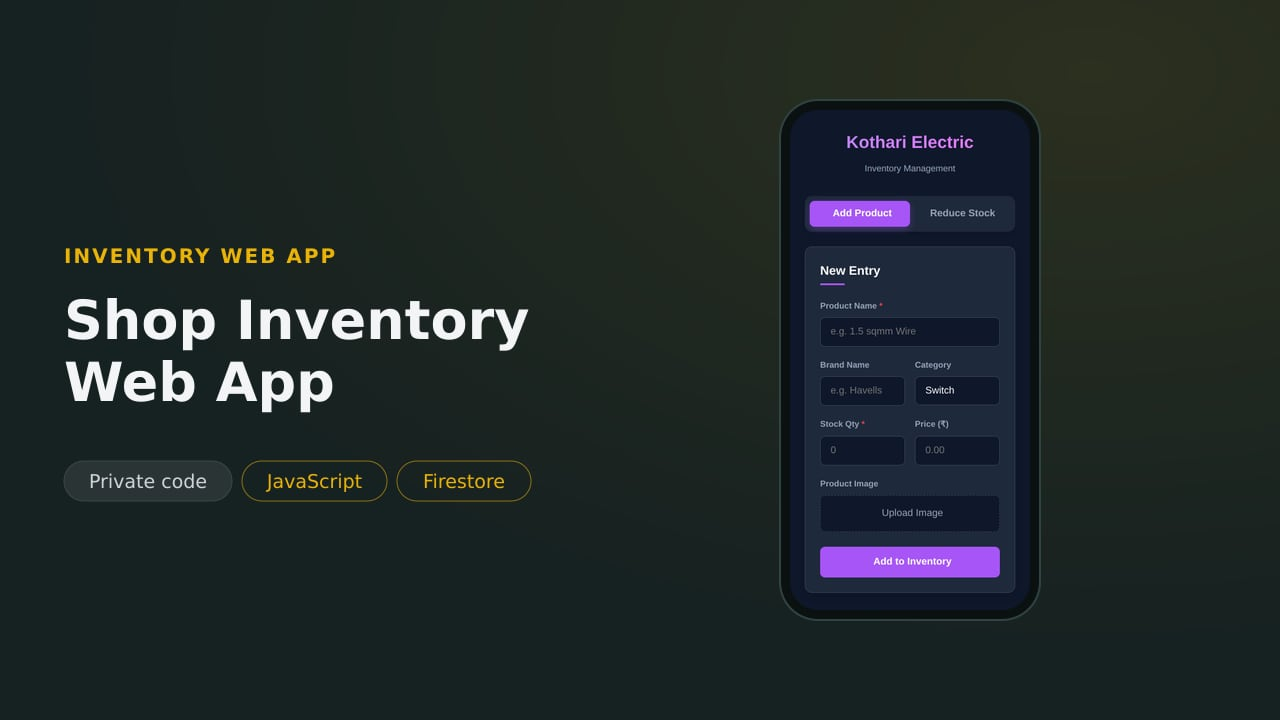
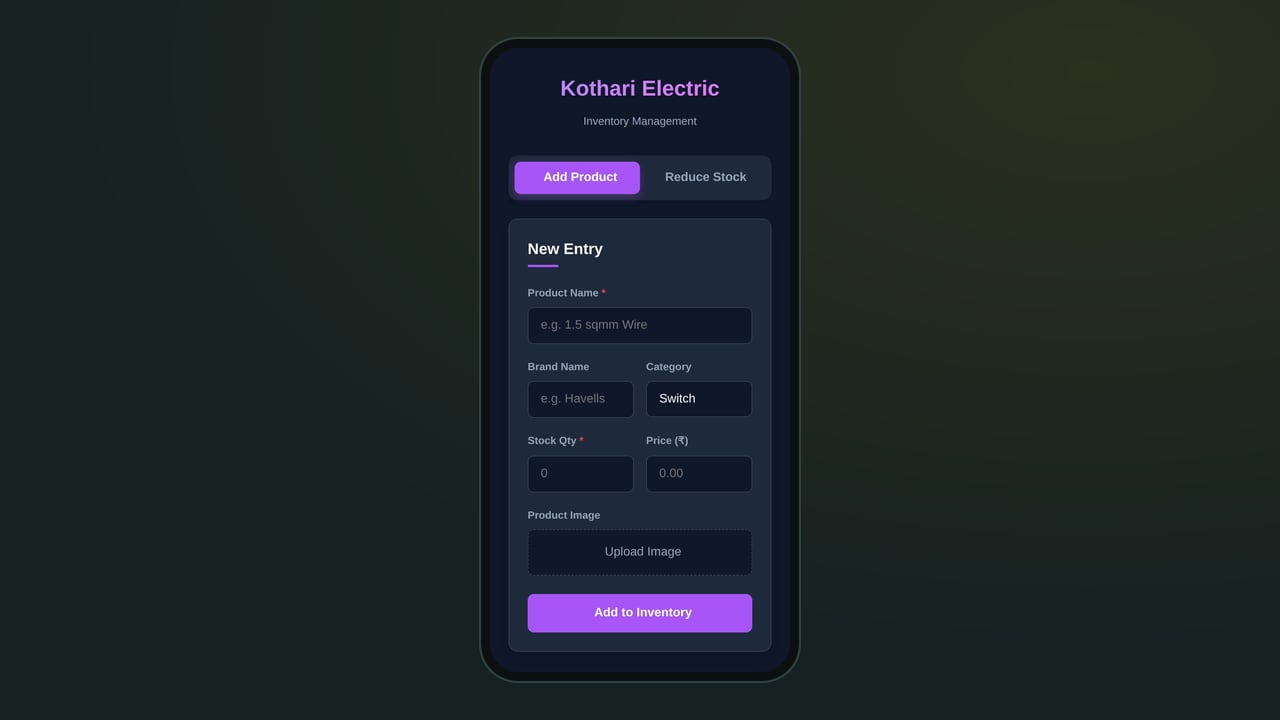
Thumbnails show only the diagram or screenshot, no repeated title
- Projects with an architecture diagram use that diagram (its title
  line cropped off) as the thumbnail; the rest show just the
  screenshot in a browser or phone frame
- No project name, type or tags are drawn on thumbnails any more
- Diagram projects no longer repeat the diagram at the top of their
  page; it stays under Architecture

Claude-Session: https://claude.ai/code/session_01Gi9NdFG1cQsiecXMp1WD36

Changed region(s): [[0.0312, 0.0306, 0.8125, 0.9167], [0.0312, 0.3361, 0.2812, 0.3667], [0.0625, 0.6417, 0.1562, 0.7028]]

diff --git a/src/pages/ProjectPages.jsx b/src/pages/ProjectPages.jsx
@@ -171,11 +171,14 @@ export function ProjectPage() {
 
             <h1 className="text-2xl md:text-4xl font-bold text-yellow-500 leading-tight">{project.title}</h1>
 
-            <img
-                src={project.img}
-                alt={`${shortName(project.title)} preview`}
-                className="mt-5 w-full aspect-video object-cover rounded-xl border border-gray-700"
-            />
+            {/* Diagram projects use the diagram as their thumbnail; it is shown under Architecture instead. */}
+            {!project.diagram && (
+                <img
+                    src={project.img}
+                    alt={`${shortName(project.title)} preview`}
+                    className="mt-5 w-full aspect-video object-cover rounded-xl border border-gray-700"
+                />
+            )}
 
             <h2 className={h2Class}>At a glance</h2>
             <FactsTable rows={facts} />
